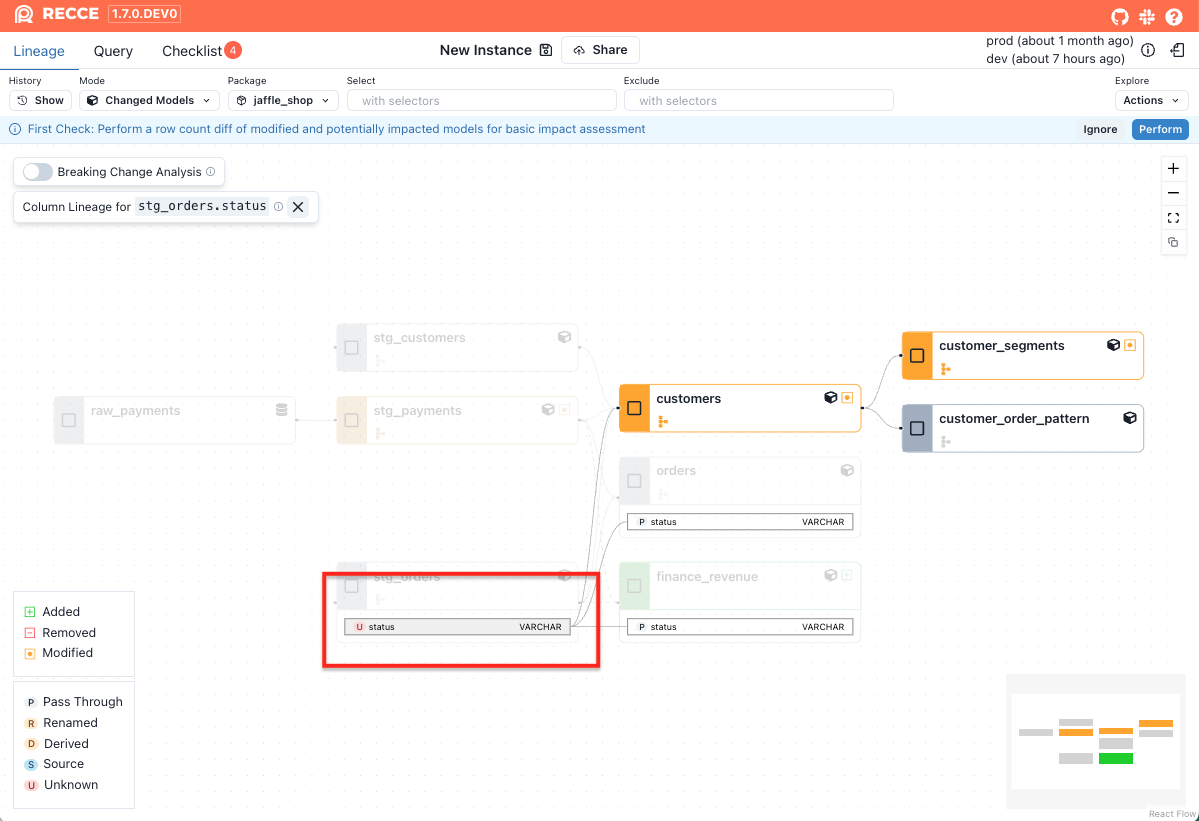
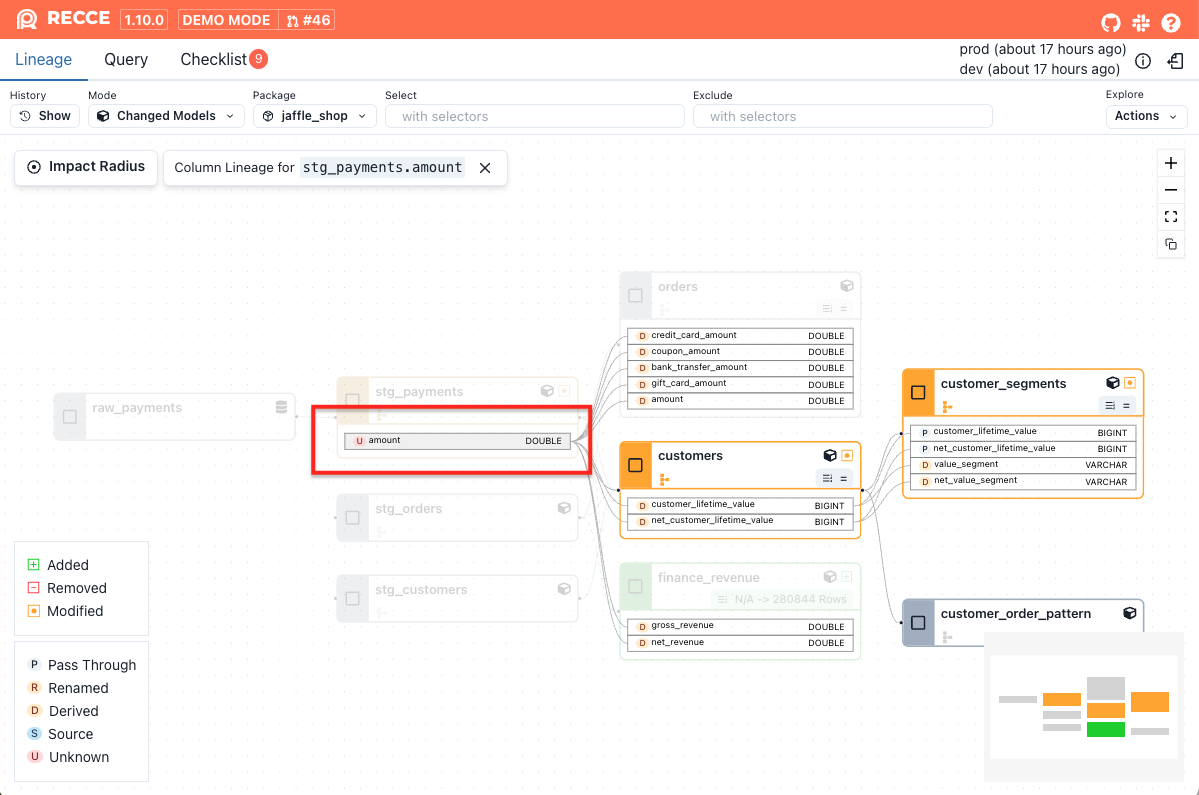
Add impact radius doc

diff --git a/docs/features/breaking-change-analysis.md b/docs/features/breaking-change-analysis.md
@@ -12,37 +12,103 @@ icon: octicons/diff-modified-24
 It's generally assumed that any modification to a model’s SQL will affect all downstream models. However, not all changes have the same level of impact. For example, formatting adjustments or the addition of a new column should not break downstream dependencies. Breaking change analysis helps you assess whether a change affects downstream models and, if so, to what extent.
 
 
-## Categories of change
-Category | Downstream Impact | Examples
----|---|---
-Non-breaking change | No downstream models are affected |  New column, formatting SQL, adding comments
-Partial breaking change | Only downstream models referencing certain columns are affected | Removing, renaming, or modifying the definition of a column
-Breaking change | All downstream models are affected | Changing filter conditions (e.g. `WHERE`), sort order (`ORDER BY`), or other SQL logic
-
 ## Usage
+Use the [impact radius](./impact-radius.md#usage) to analyze changed and see the impacted downstream.
 
-To enable **Breaking Change Analysis**, click the toggle on the  **Lineage** page. 
+## Categories of change
+### Non-breaking change
 
-All modified models display their change category directly on the node. Additionally, partial breaking changes are highlighted with a dashed orange border to indicate that they may not impact downstream models.
+No downstream models are affected. Common cases are adding new columns, comments, or formatting changes that don't alter logic.
 
-=== "Disabled"
-    
-    ![Breaking Change Analysis (disabled)](../assets/images/features/breaking-change-disabled.png){: .shadow}
+**Example: Add new columns**
+Adding a new column like status doesn't affect models that don't reference it.
 
-=== "Enabled"
-    
-    ![Breaking Change Analysis](../assets/images/features/breaking-change.png){: .shadow}
+```diff
+select
+    user_id,
+    user_name,
+++  status,
+from
+    {{ ref("orders") }}
+
+```
 
 
-## Column-Level Lineage
 
-In models classified as **non-breaking** or **partial breaking** -  added, removed, or modified columns will be listed. Click on a column to open its [Column-Level Lineage](./column-level-lineage.md)
 
-![Column-level lineage](../assets/images/features/breaking-change-lineage.png){: .shadow}
+### Partial breaking change
+
+Only downstream models that reference specific columns are affected. Common cases are removing, renaming, or redefining a column.
+
+**Example: Removing a column**
+
+```diff
+select
+    user_id,
+--  status,
+    order_date,
+from
+    {{ ref("orders") }}
+```
+
+**Example: Renaming a column**
+
+```diff
+select
+    user_id,
+--  status
+++  order_status
+from
+    {{ ref("orders") }}
+```
+
+
+**Example: Redefining a column**
+```diff
+select
+    user_id,
+--  discount
+++  coalesce(discount, 0) as discount
+from
+    {{ ref("orders") }}
+```
+
+
+### Breaking change
+
+All downstream models are affected. Common case are changes adding a filter condition or adding group by columns.
+
+**Example: Adding a filter condition**
+This may reduce the number of rows, affecting all downstream logic that depends on the original row set.
+
+```diff
+select
+    user_id,
+    order_date
+from
+    {{ ref("orders") }}
+++ where status = 'completed'
+```
+
+
+**Example: Adding a GROUP BY column**
+Changes the granularity of the result set, which can break all dependent models.
+
+```diff
+select
+    user_id,
+++  order_data,
+    count(*) as total_orders
+from
+    {{ ref("orders") }}
+-- group by user_id
+++ group by user_id, order_date
+```
+
 
 ## Limitations
 
-The current implementation of breaking change analysis is still very conservative. As a result, a modified model may be classified as a breaking change when it is actually non breaking or partial breaking changes. Common cases include:
+Our breaking change analysis is intentionally conservative to prioritize safety. As a result, a modified model may be classified as a breaking change when it is actually non breaking or partial breaking changes. Common cases include:
 
 1. Logical equivalence in operations, such as changing `a + b` to `b + a`.
 1. Adding a `LEFT JOIN` to a table and selecting columns from it. This is often used to enrich the current model with additional dimension table data without affecting existing downstream tables.

diff --git a/docs/features/impact-radius.md b/docs/features/impact-radius.md
@@ -1,0 +1,82 @@
+---
+title: Impact Radius
+icon: material/adjust
+---
+
+**Impact Radius** helps you analyze changes and identify downstream impacts at the column level.
+
+While dbt provides a similar capability using the [state selector](https://docs.getdbt.com/reference/node-selection/methods#state) with `state:modified+` to identify modified nodes and their downstream dependencies, Recce goes further. By analyzing SQL code directly, Recce enables **fine-grained impact radius analysis**. It reveals how changes to specific columns can ripple through your data pipeline, helping you prioritize which models—and even which columns—deserve closer attention.
+
+
+=== "state:modified+"
+    
+    ![Breaking Change Analysis (disabled)](../assets/images/features/impact-radius-legacy.png){: .shadow}
+
+=== "Impact Radius"
+    
+    ![Breaking Change Analysis](../assets/images/features/impact-radius.png){: .shadow}
+
+
+
+## Usage
+
+### Show impact radius
+
+1. Click the **Impact Radius** button in the upper-left corner.
+
+    ![alt text](../assets/images/features/impact-radius-1.png){: .shadow}
+
+1. The impact radius will be displayed.
+
+    ![alt text](../assets/images/features/impact-radius-2.png){: .shadow}
+
+1. To exit impact radius view, click the close button in the upper-left corner.
+    
+    ![alt text](../assets/images/features/impact-radius-3.png){: .shadow}
+
+### Show impact radius for a single changed model
+
+1. Hover over a changed model, then click the **target icon** or right-click the model and click the **Show Impact Radius**
+
+    ![alt text](../assets/images/features/impact-radius-single-1.png){: .shadow}
+
+1. The impact radius for this model will be displayed.
+
+    ![alt text](../assets/images/features/impact-radius-single-2.png){: .shadow}
+
+1. To exit impact radius view, click the close button in the upper-left corner.
+    
+    ![alt text](../assets/images/features/impact-radius-single-3.png){: .shadow}
+
+
+## How it works
+
+Two core features power the impact radius analysis:
+
+**[Breaking Change Analysis](./breaking-change-analysis.md)** classifies modified models into three categories:
+
+- **Breaking changes**: All downstream nodes are impacted
+- **Non-breaking changes**: No downstream nodes are not impacted
+- **Partial breaking changes**: Only downstream columns that depend on modified columns are impacted.
+
+**[Column-level lineage](./column-level-lineage.md)** analyzes your model's SQL to identify column-level dependencies:
+
+- Which upstream **columns** are used as filters or grouping keys. If those upstream **columns** change, the current **model** is impacted.
+- Which upstream **columns** a specific column references. If those upstream **columns** change, the specific **column** is impacted.
+
+## Putting It Together
+
+With the insights from the two features above, Recce determines the impact radius:
+
+1. If a model has a **breaking change**, include all downstream models in the impact radius.
+1. If a model has a **non-breaking change**, include only the downstream columns and models of newly added columns.
+1. If a model has a **partial breaking change**, include the downstream columns and models of added, removed, or modified columns.
+
+
+
+
+
+
+
+
+
